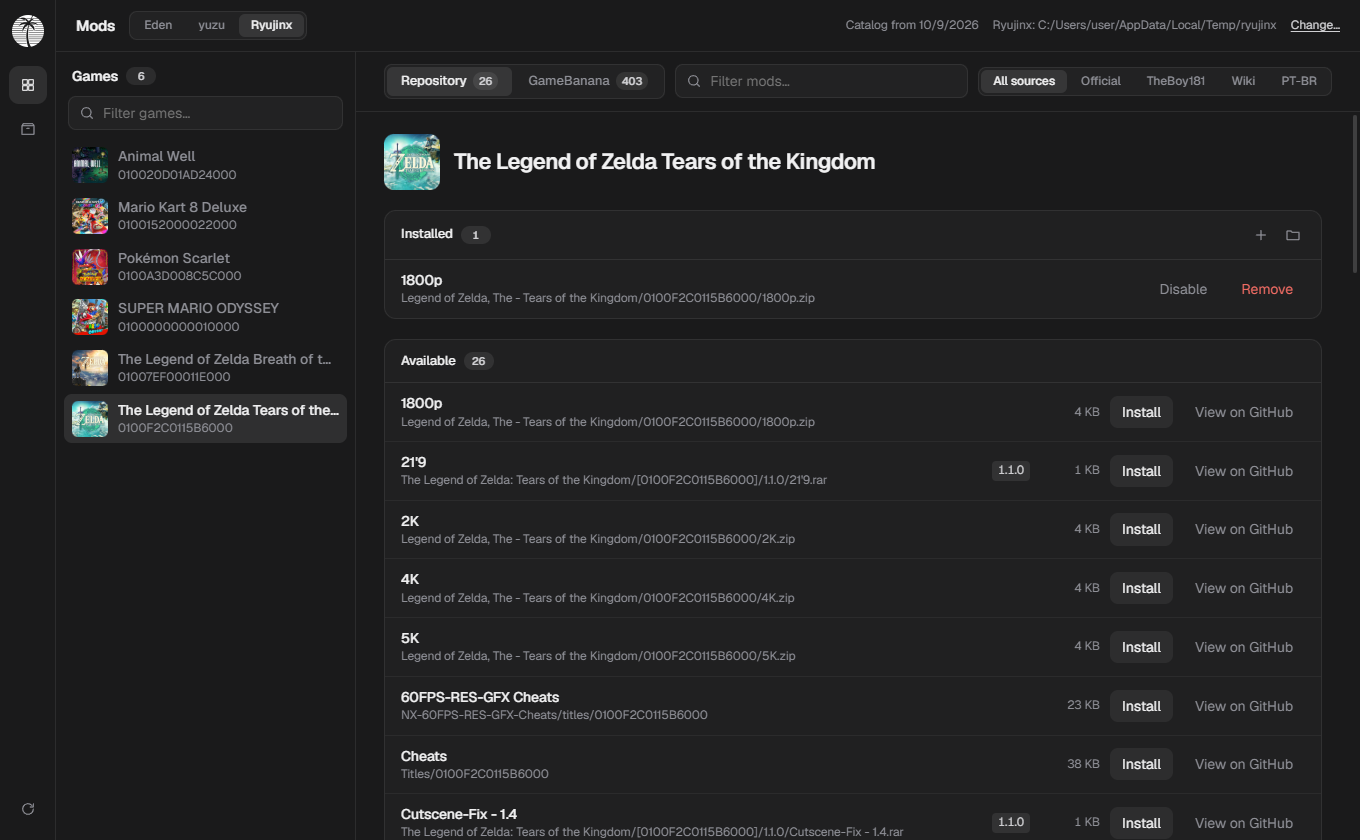
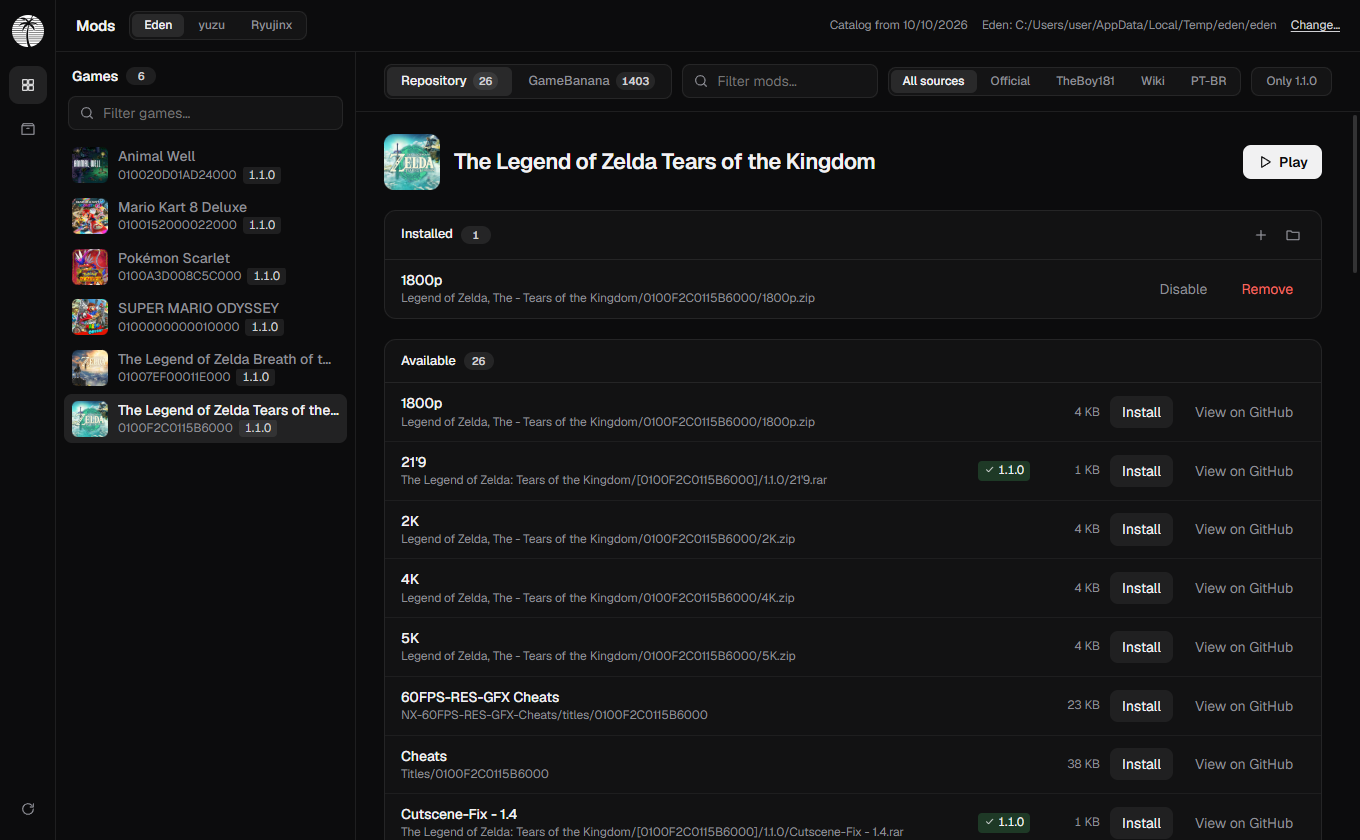
docs: update screenshots and README for auto-install and Play

diff --git a/README.md b/README.md
@@ -26,6 +26,10 @@ Optional built-in NSZ compressor. Windows, Linux and macOS.
 </p>
 
 <p align="center">
+  <img src="docs/screenshots/dependencies.png" alt="External dependencies guide for Smash Ultimate mods using Skyline and ARCropolis" width="720" />
+</p>
+
+<p align="center">
   <img src="docs/screenshots/gamebanana-popup.png" alt="GameBanana mod details popup" width="720" />
 </p>
 
@@ -61,7 +65,8 @@ Optional built-in NSZ compressor. Windows, Linux and macOS.
 - **Your games, with cover art.** Reads the emulator's own game list and covers, and fetches missing ones.
 - **Four sources in one list.** Official database, TheBoy181, the Switch Mods Wiki Archive and a PT-BR translation pack, merged and de-duplicated.
 - **GameBanana tab.** A separate tab lists user-made mods for the selected game from [GameBanana](https://gamebanana.com) as cards with a details popup. They are third-party content, not part of the repository and not reviewed by this app, which only downloads the file from there and installs it.
-- **Filters that cut the noise.** Search by name, filter by source, or show only mods matching your installed game version.
+- **Filters that cut the noise.** Search by name, filter by source, or use the **Only `<version>`** button to hide mods made for a different game version (mods without a version stay visible).
+- **Play from the app.** The **Play** button next to a game's name starts it in the active emulator (`-g <file>` on Eden/yuzu, the file as argument on Ryujinx). The app finds the emulator executable by itself (portable folder, common install folders, `PATH`); if it can't, it asks for the file once and remembers it. It finds the game's `.nsp`/`.xci` by the title ID in the file name; if your file has no title ID in its name (e.g. `Mario.xci`), it asks you to pick the file once and remembers it for that game. Compressed `.nsz`/`.xcz` must be decompressed first.
 - **Safe installs.** Pick which variants of a package to install (resolutions, FPS, etc.), enable or disable them without deleting (written to the emulator config, so do it with the emulator closed), update when the catalog has a newer version, see which mods contain the same `romfs`/`exefs` files, and remove them with one click.
 - **Bring your own mod.** The **+** button in the Installed panel takes a `.zip`, `.7z` or `.rar` you downloaded yourself and installs it with the same variant picker.
 - **Optional NSZ compressor.** Compress NSP/XCI and decompress NSZ/XCZ, with progress and verification. The tool is downloaded only on first use.
@@ -98,6 +103,60 @@ A short in-app guide opens on first launch. Click the app icon at the top left f
 ### Portable mode (Windows)
 
 Keep a file named `portable` next to `EdenModManager.exe` and the app stores its settings, cache and tools in a `data/` folder beside it. Remove the file to go back to the regular user profile.
+
+### Super Smash Bros. Ultimate — ARCropolis
+
+**English**
+
+ARCropolis archives from GameBanana or the **+** button use the same installer and Installed panel. Support is limited to Super Smash Bros. Ultimate on Eden and Ryujinx; yuzu is not supported for ARCropolis.
+
+Selecting Smash Ultimate shows a persistent notice on both Repository and GameBanana tabs: **some** mods need Skyline + ARCropolis, which the app installs automatically. **External dependencies** opens a guide with the install button, the verified paths and compatibility warnings.
+
+Other games' mods may need their own loaders; check each mod's page.
+
+These mods go to the emulated SD card's `ultimate/mods/<mod>` folder, not the emulator's ordinary mod folder. Default SD roots are `<emulator data folder>/sdmc` on Eden and `<emulator data folder>/sdcard` on Ryujinx.
+
+The app downloads the latest [Skyline](https://github.com/skyline-dev/skyline/releases) (`skyline-dev/skyline`) and [ARCropolis](https://github.com/Raytwo/ARCropolis/releases) (`Raytwo/ARCropolis`) releases and installs whatever is missing on the emulated SD card when you install or enable an ARCropolis mod, or with the **Install Skyline + ARCropolis** button. Files already present are not replaced. The app checks for these files relative to the emulated SD root:
+
+```text
+atmosphere/contents/01006A800016E000/exefs/subsdk9
+atmosphere/contents/01006A800016E000/romfs/skyline/plugins/libarcropolis.nro
+```
+
+See also [Eden's setup instructions](https://github.com/eden-emulator/mirror/blob/master/docs/user/Mods.md). The Smash banner and the guide show whether Skyline and ARCropolis are already installed.
+
+Other games: when an installed mod ships Skyline plugins (`romfs/skyline/plugins/*.nro`), the app installs Skyline for that game automatically (with `main.npdm` adjusted to the game's title ID), shows its state in a banner, and reinstalls it if you enable the mod and the files are gone.
+
+Close the game before enabling, disabling or removing mods. Disabling moves managed files to `ultimate/.eden-mod-manager-disabled/<mod>`, outside ARCropolis's scanned `ultimate/mods` tree; enabling moves them back.
+
+On first discovery, you may also need to enable the mod in [ARCropolis's in-game Mod Manager](https://github.com/Raytwo/ARCropolis/wiki/Mod-manager-(Features)). The app does not change ARCropolis's workspace selection.
+
+**Português**
+
+Arquivos ARCropolis do GameBanana ou do botão **+** usam o mesmo instalador e painel de instalados. O suporte é limitado a Super Smash Bros. Ultimate no Eden e Ryujinx; yuzu não é compatível com ARCropolis.
+
+Ao selecionar Smash Ultimate, um aviso permanece nas abas Repositório e GameBanana: **alguns** mods exigem Skyline + ARCropolis, que o app instala automaticamente.
+
+**Dependências externas** abre um guia com o botão de instalação, os caminhos verificados e avisos de compatibilidade.
+
+Mods de outros jogos podem exigir loaders próprios; consulte a página de cada mod.
+
+Esses mods vão para `ultimate/mods/<mod>` na SD emulada, não para a pasta comum de mods do emulador. A raiz padrão da SD é `<pasta de dados do emulador>/sdmc` no Eden e `<pasta de dados do emulador>/sdcard` no Ryujinx.
+
+O app baixa as versões mais recentes de [Skyline](https://github.com/skyline-dev/skyline/releases) (`skyline-dev/skyline`) e [ARCropolis](https://github.com/Raytwo/ARCropolis/releases) (`Raytwo/ARCropolis`) e instala o que faltar na SD emulada ao instalar ou ativar um mod ARCropolis, ou pelo botão **Instalar Skyline + ARCropolis**. Arquivos já presentes não são substituídos. O app verifica estes dois arquivos, relativos à raiz da SD emulada:
+
+```text
+atmosphere/contents/01006A800016E000/exefs/subsdk9
+atmosphere/contents/01006A800016E000/romfs/skyline/plugins/libarcropolis.nro
+```
+
+Consulte também as [instruções do Eden](https://github.com/eden-emulator/mirror/blob/master/docs/user/Mods.md). O banner do Smash e o guia mostram se Skyline e ARCropolis já estão instalados.
+
+Outros jogos: se um mod instalado traz plugins do Skyline (`romfs/skyline/plugins/*.nro`), o app instala o Skyline desse jogo automaticamente (com o `main.npdm` ajustado ao TID do jogo), mostra o estado em um banner e o reinstala se você ativar o mod e os arquivos tiverem sumido.
+
+Feche o jogo antes de ativar, desativar ou remover mods. Desativar move os arquivos gerenciados para `ultimate/.eden-mod-manager-disabled/<mod>`, fora de `ultimate/mods`, que o ARCropolis examina; ativar os move de volta.
+
+Na primeira descoberta, pode ser necessário ativar o mod também no [gerenciador dentro do jogo](https://github.com/Raytwo/ARCropolis/wiki/Mod-manager-(Features)). O app não altera a seleção do workspace do ARCropolis.
 
 ## NSZ compressor
 
